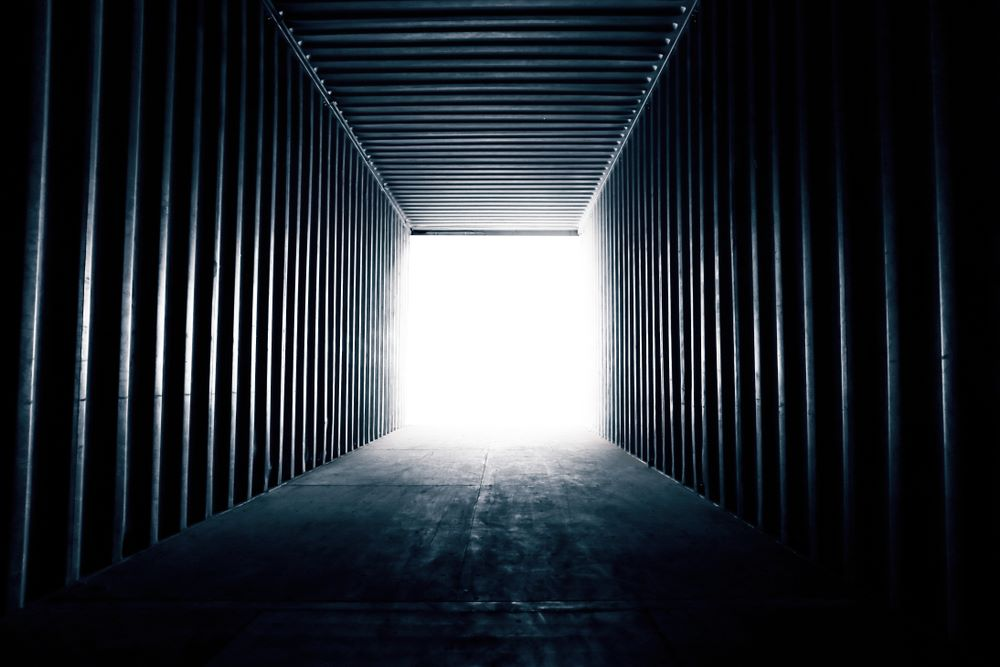
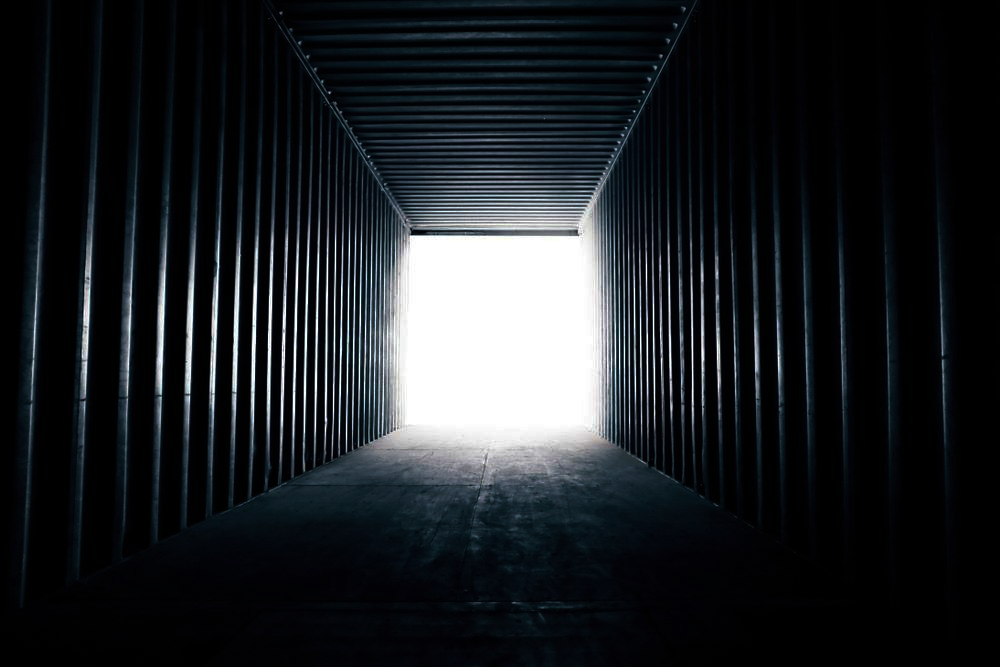
changed hero

Changed region(s): [[0.0, 0.0, 0.899, 1.0], [0.93, 0.2999, 0.961, 0.7196]]

diff --git a/src/components/organism/Hero.jsx b/src/components/organism/Hero.jsx
@@ -19,12 +19,12 @@ function Hero() {
             'md:px-24 ' +
             'pt-16 lg:pt-0 ' +
             'bg-cover ' +
-            'md:bg-[length:165%] lg:bg-[length:100%]'
+            'md:bg-[length:165%] lg:bg-[length:125%] bg-[-100px_0] lg:bg-[0]'
         }
                  style={{backgroundImage: `url(${portada})`}}
         >
             <Logo className={"w-64 lg:w-[350px]"}/>
-            <h1 className={"text-5xl md:text-7xl lg:text-8xl lg:font-black text-secondary-50 font-bold text-center md:text-left"}>Tu
+            <h1 className={"text-5xl md:text-7xl lg:text-8xl lg:font-black text-secondary-100 font-bold text-center md:text-left"}>Tu
                 depósito <br/> de confianza.</h1>
             <ButtonContact className={"md:text-2xl lg:text-3xl lg:font-bold md:py-2 md:px-6 lg:py-4 lg:px-6"}/>
         </section>
